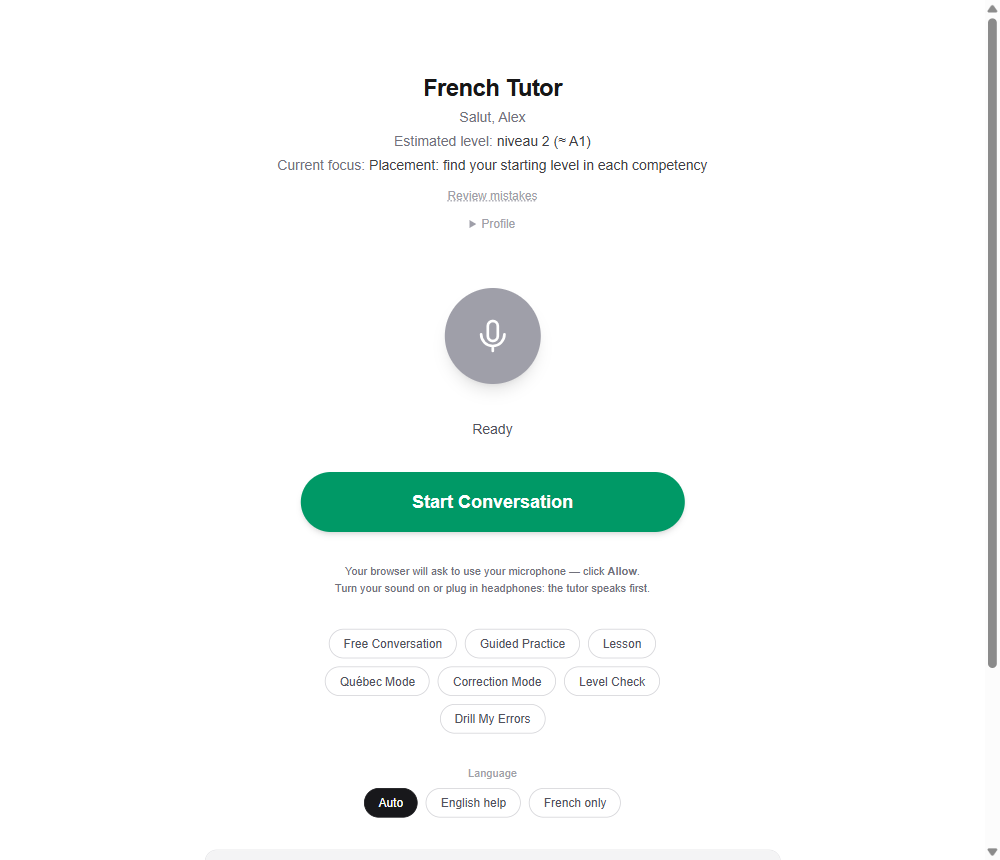
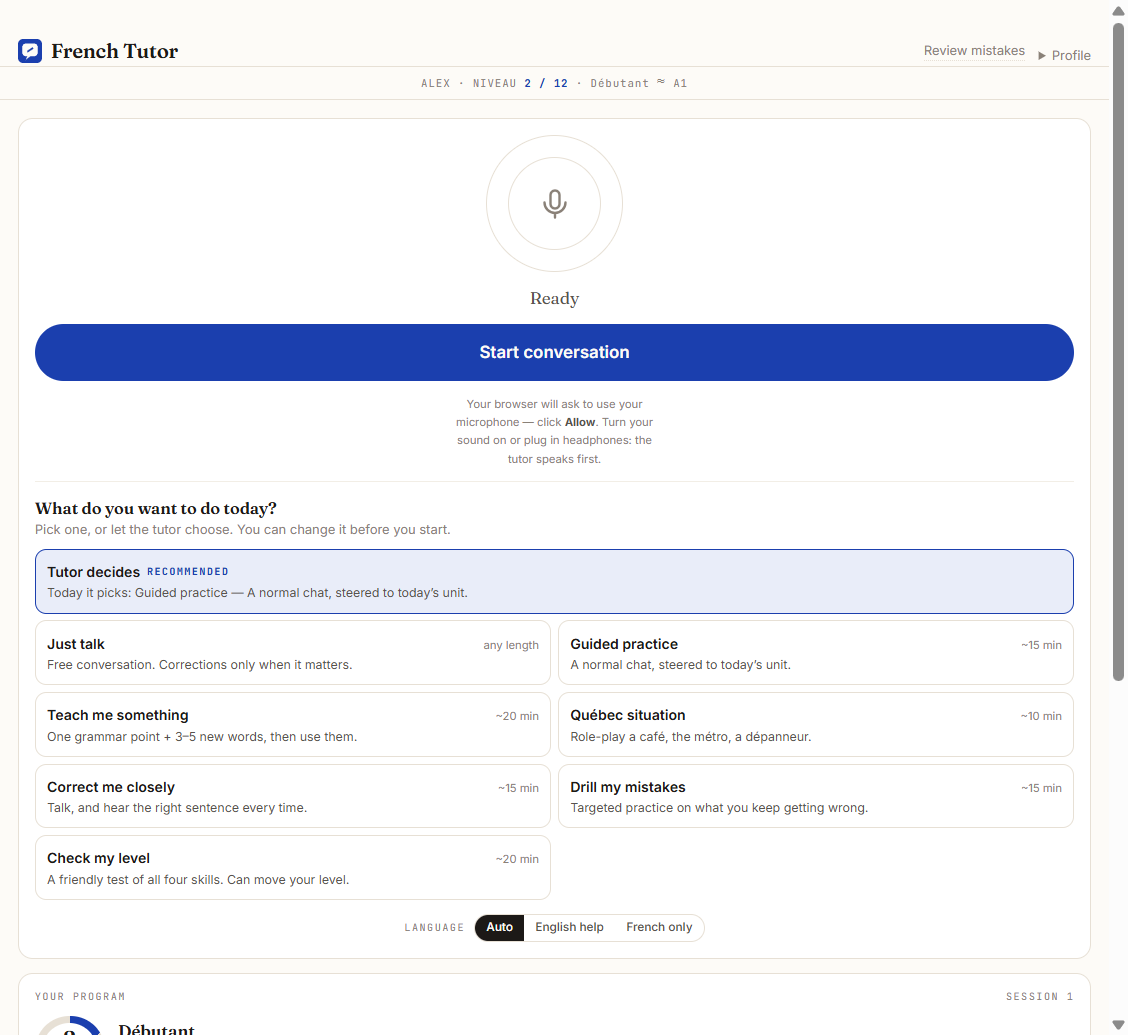
docs: re-shoot the ready screenshot on the new mode picker
ready.png still showed the pre-0.3.0 screen: green button, the old row of
pill-shaped mode chips, no picker. Re-taken on v0.4.0 so the README shows what
the learner actually sees — "What do you want to do today?" with every mode
named and "Tutor decides" saying what it is about to pick.

Shot against a throwaway local file store (a fresh "Alex" at niveau 2), not the
real learner profile, so nothing personal is in the image.

conversation.png and summary.png are still pre-0.3.0 and now also miss the
in-call "Now running" banner and the mode name on the summary. Both need a live
voice call to reproduce, so they are left for the manual voice test.

diff --git a/README.md b/README.md
@@ -62,13 +62,13 @@ Once it's installed, this is all you do. Every time.
   </tr>
   <tr>
     <td valign="top">Double-click <b>Quebec French Tutor</b> on your Desktop. A window opens, then your browser.</td>
-    <td valign="top">Press the big <b>Start Conversation</b> button. The tutor greets you.</td>
+    <td valign="top">Press the big <b>Start conversation</b> button — or first pick the kind of call you want. The tutor greets you.</td>
     <td valign="top">When the circle is <b>green</b>, speak. Take your time; it waits through pauses.</td>
     <td valign="top">Say <i>"on arrête"</i> or press <b>End Conversation</b>. Your progress is saved.</td>
   </tr>
   <tr>
     <td><img src="docs/images/windows-running.png" alt="The tutor window after double-clicking the icon"></td>
-    <td><img src="docs/images/ready.png" alt="The Start Conversation button"></td>
+    <td><img src="docs/images/ready.png" alt="The Start conversation button, with the choice of call underneath"></td>
     <td><img src="docs/images/conversation.png" alt="A conversation with the transcript"></td>
     <td><img src="docs/images/summary.png" alt="The summary after a call"></td>
   </tr>
@@ -363,9 +363,11 @@ window, not from the internet.
    later under **Profile**.
 3. **Turn your sound on.** Check that your speakers aren't muted and the volume is up.
    Headphones work best.
-4. Press **Start Conversation**.
+4. Press **Start conversation** — or first pick what kind of call you want from the list
+   underneath. Leaving it on **Tutor decides** is the normal thing to do; it tells you
+   what it is about to pick.
 
-   <img src="docs/images/ready.png" alt="Ready to start" width="480">
+   <img src="docs/images/ready.png" alt="Ready to start, with the choice of call underneath" width="480">
 
 5. **Allow the microphone.** The browser asks to use your microphone. Click
    **Allow while visiting the site** (Chrome) or **Allow** (Edge). If you have more than
